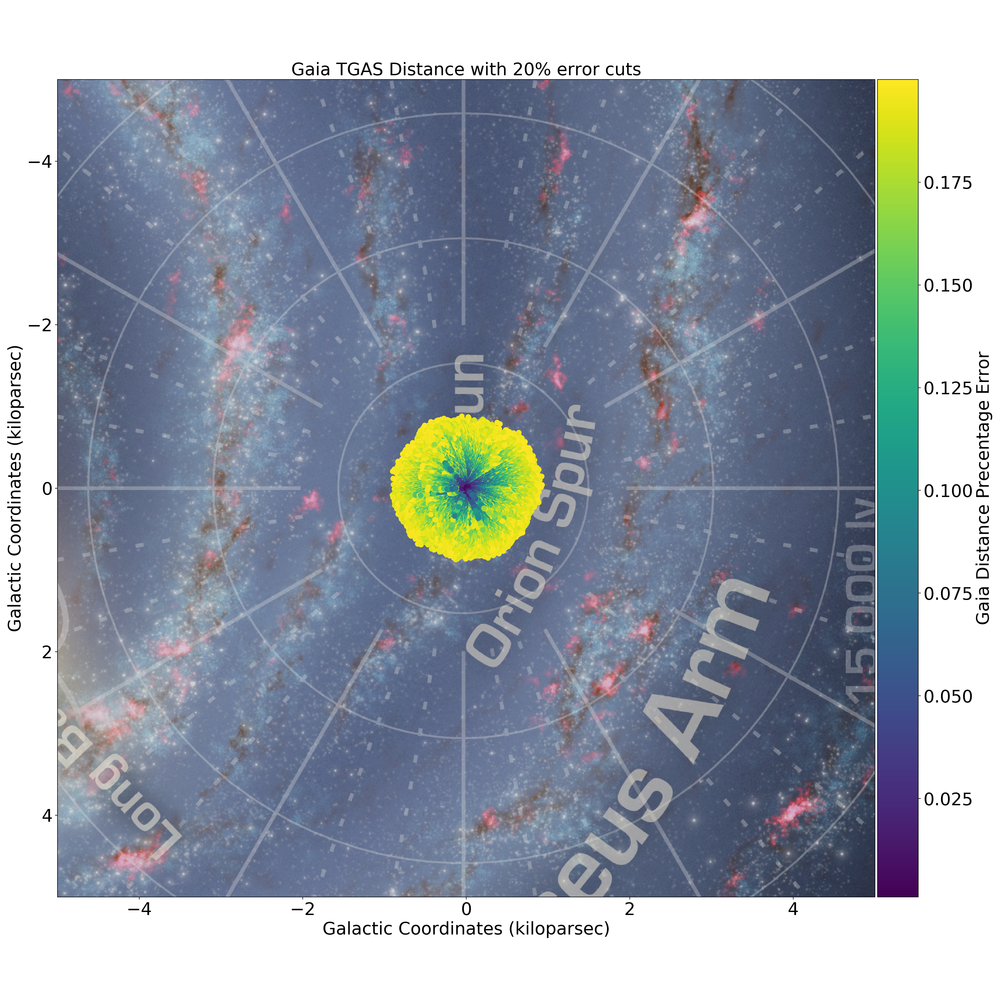
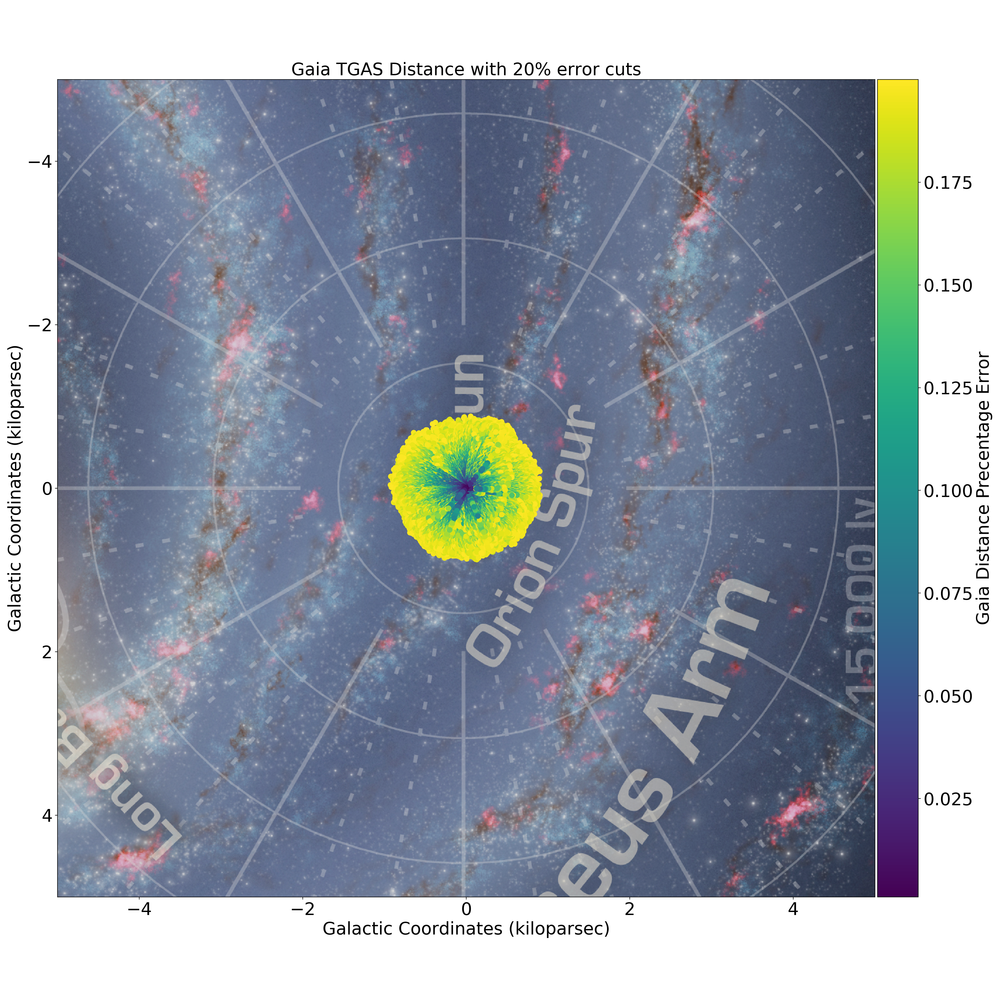
gaia observation flipped due to handedness issue

Changed region(s): [[0.372, 0.403, 0.558, 0.558]]

diff --git a/README.rst b/README.rst
@@ -183,7 +183,7 @@ Example 3: plotting Gaia DR1 observation with astroNN in Galactic coordinates
 .. image:: https://github.com/henrysky/milkyway_plot/blob/master/readme_images/example_plot_gaia.png?raw=true
 
 You can set the coord to ``galactic`` to plot observation from Gaia. Please notice if you are using astropy's
-galactocentric transformation, they will transform to a left handed frame, you have to set x = -x to flip it to
+coordinates transformation, they will transform under left handed frame, you have to set x = -x to flip it to
 right handed which is also the expectation of ``mw_plot``
 
 .. code:: python
@@ -220,8 +220,8 @@ right handed which is also the expectation of ``mw_plot``
 
    plot_instance.s = 50.0  # make the scatter points bigger
 
-   # plot
-   plot_instance.mw_plot(c.galactic.cartesian.x, c.galactic.cartesian.y, [distance_err, 'Gaia Distance Precentage Error'],
+   # plot, need to flip the sign of x because astropy is left-handed but mw_plot is right-handed
+   plot_instance.mw_plot(-c.galactic.cartesian.x, c.galactic.cartesian.y, [distance_err, 'Gaia Distance Precentage Error'],
                       'Gaia TGAS Distance with 20% error cuts')
 
    # Save the figure
